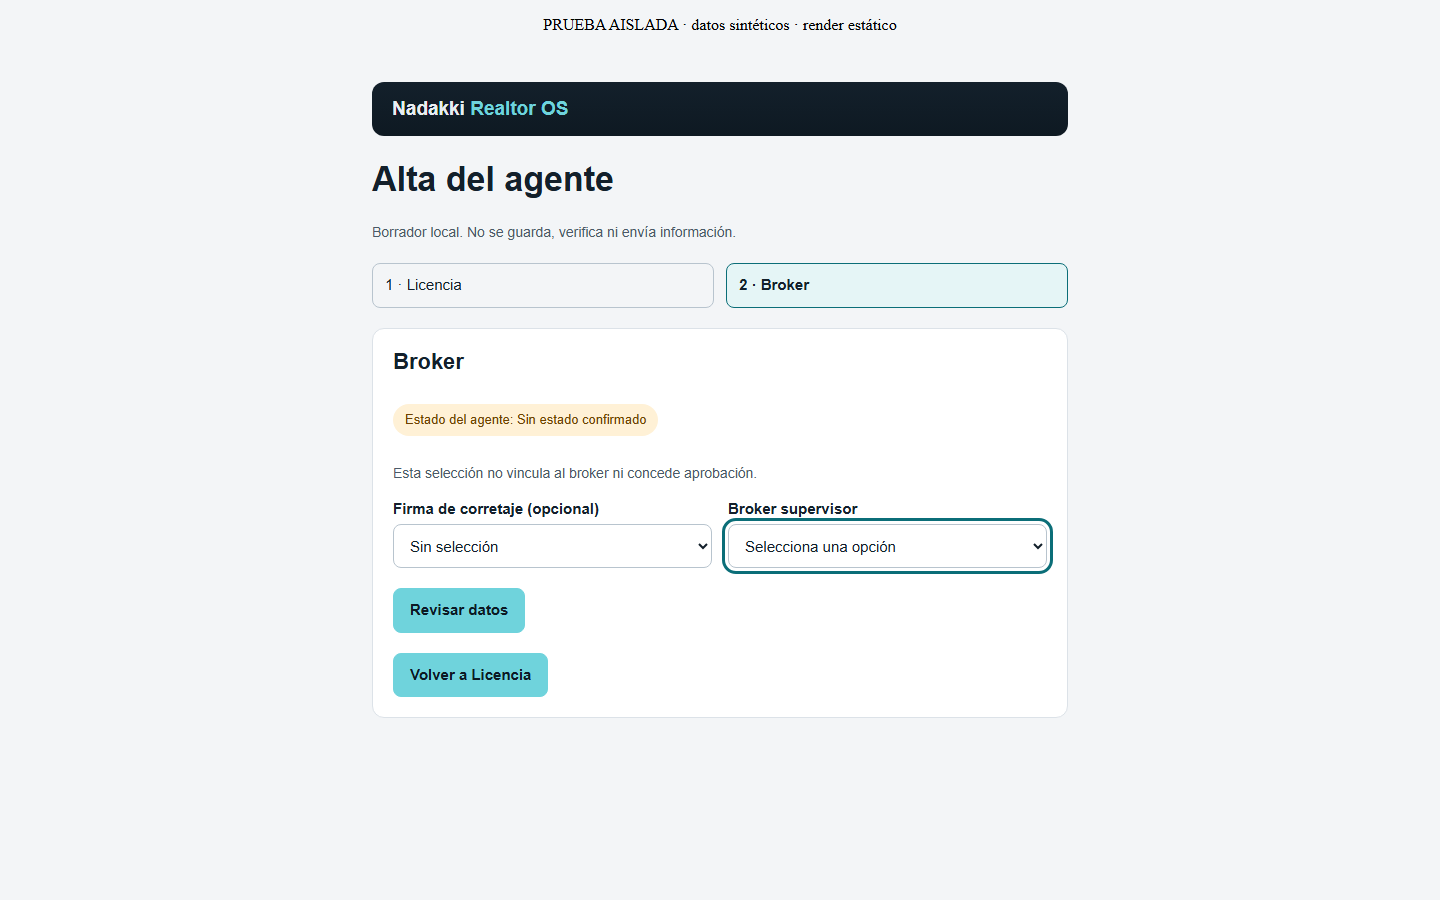
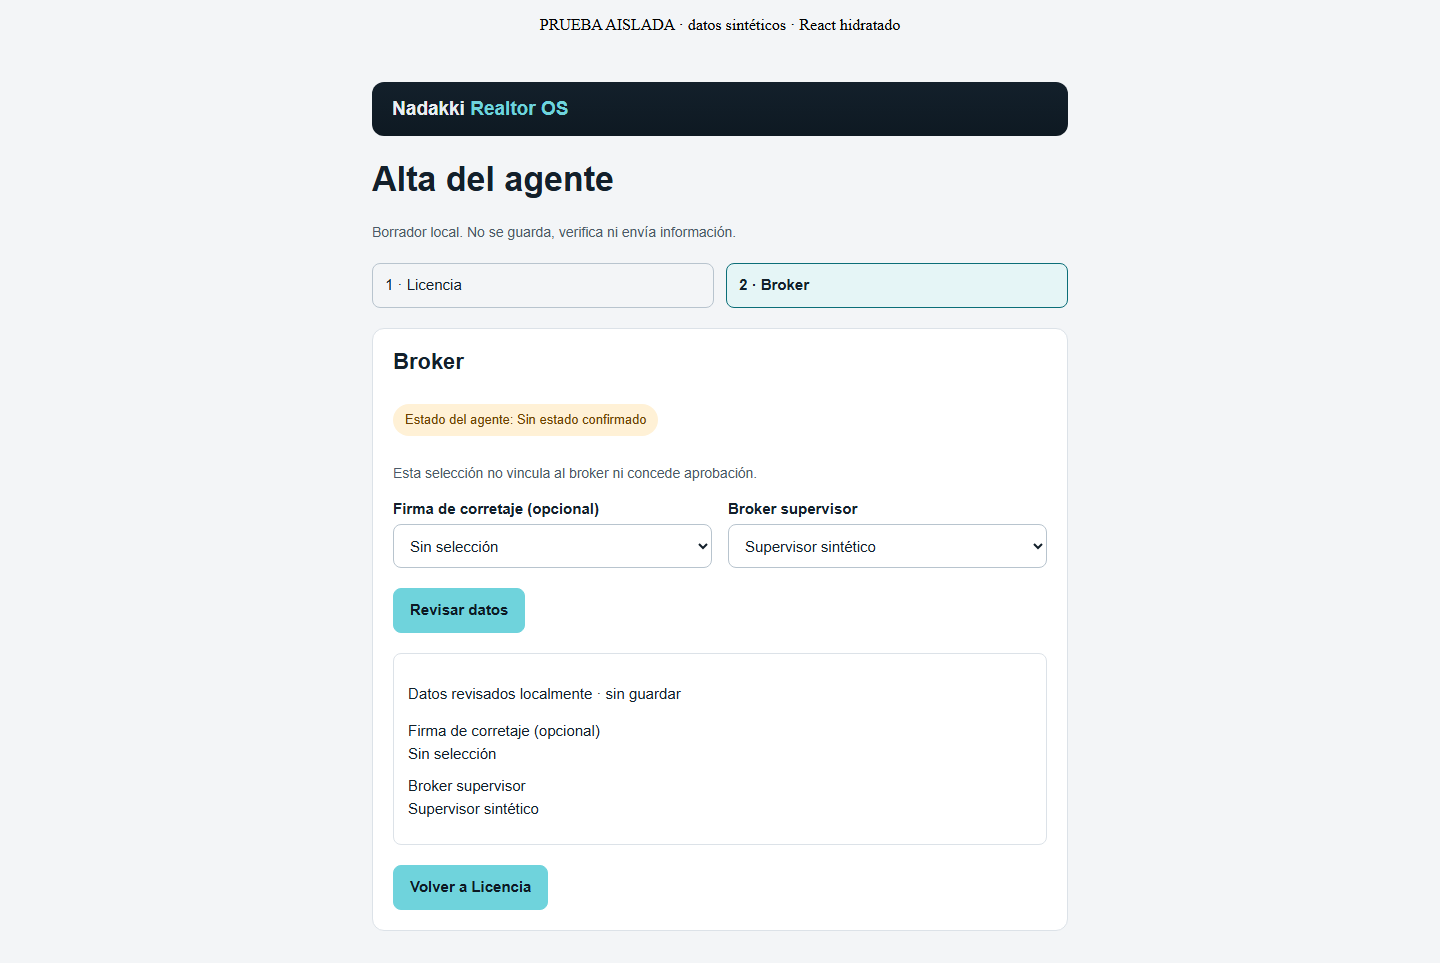
[DASH-REALTOR] verify hydrated license broker flow in Chromium

Changed region(s): [[0.25, 0.0622, 0.75, 0.9644], [0.375, 0.0, 0.625, 0.0311]]

diff --git a/docs/design/realtor/G2_PANEL_ALTA_COMPONENTS_1.md b/docs/design/realtor/G2_PANEL_ALTA_COMPONENTS_1.md
@@ -60,12 +60,12 @@ No se solicita VISUAL_ACCEPT ni TECH_ACCEPT. Sin merge; Marca/Canales requieren 
 
 ## Evidencias ejecutadas
 PASS: Jest, 20 casos; TypeScript acotado a componentes/pruebas, sin emit; ESLint, cero advertencias.
-PASS: Chromium + axe WCAG 2/2.1 A/AA, cero infracciones en Licencia/Broker a 1440/390px;
-sin desbordamiento y tabulación nativa. Capturas en evidence/part1/*.png, generadas por isolated-qa.cjs.
-Render estático del componente real: no prueba navegación React hidratada (NOT_EXECUTED en navegador).
-La navegación, foco, validación, estados, ES/EN y ausencia de transporte/storage sí se probaron en Jest.
+PASS: React SSR renderToString + hydrateRoot en Chromium offline a 390/768/1024/1440px, flujo teclado/ratón.
+PASS: errores, corrección, revisión, ida/vuelta y preservación de licencia/firma/supervisor; 28 capturas en evidence/part1.
+PASS: firma y supervisión opcionales, pack/jurisdicciones/supervisores ausentes; axe WCAG 2/2.1 A/AA sin infracciones.
+PASS: foco por teclado/cambio/error, outline visible >=3px, sin desbordamiento ni errores de consola/hidratación.
 NOT_EXECUTED: integración backend, gate runtime, build global, CI remoto y navegación productiva.
 Los resultados del ZIP no se presentan como pruebas de esta implementación. Fuentes de respaldo en capturas.
 Comandos: Jest --runInBand --roots tests/realtor --runTestsByPath tests/realtor/license-broker.test.tsx;
 tsc --noEmit --incremental false (entradas locales y css-modules.d.ts); eslint --max-warnings 0;
-node tests/realtor/isolated-qa.cjs. Herramientas del node_modules existente, sin cambiar configuración.
+node tests/realtor/isolated-qa.cjs (webpack + loader local, temporales fuera de app, fuentes de respaldo).
